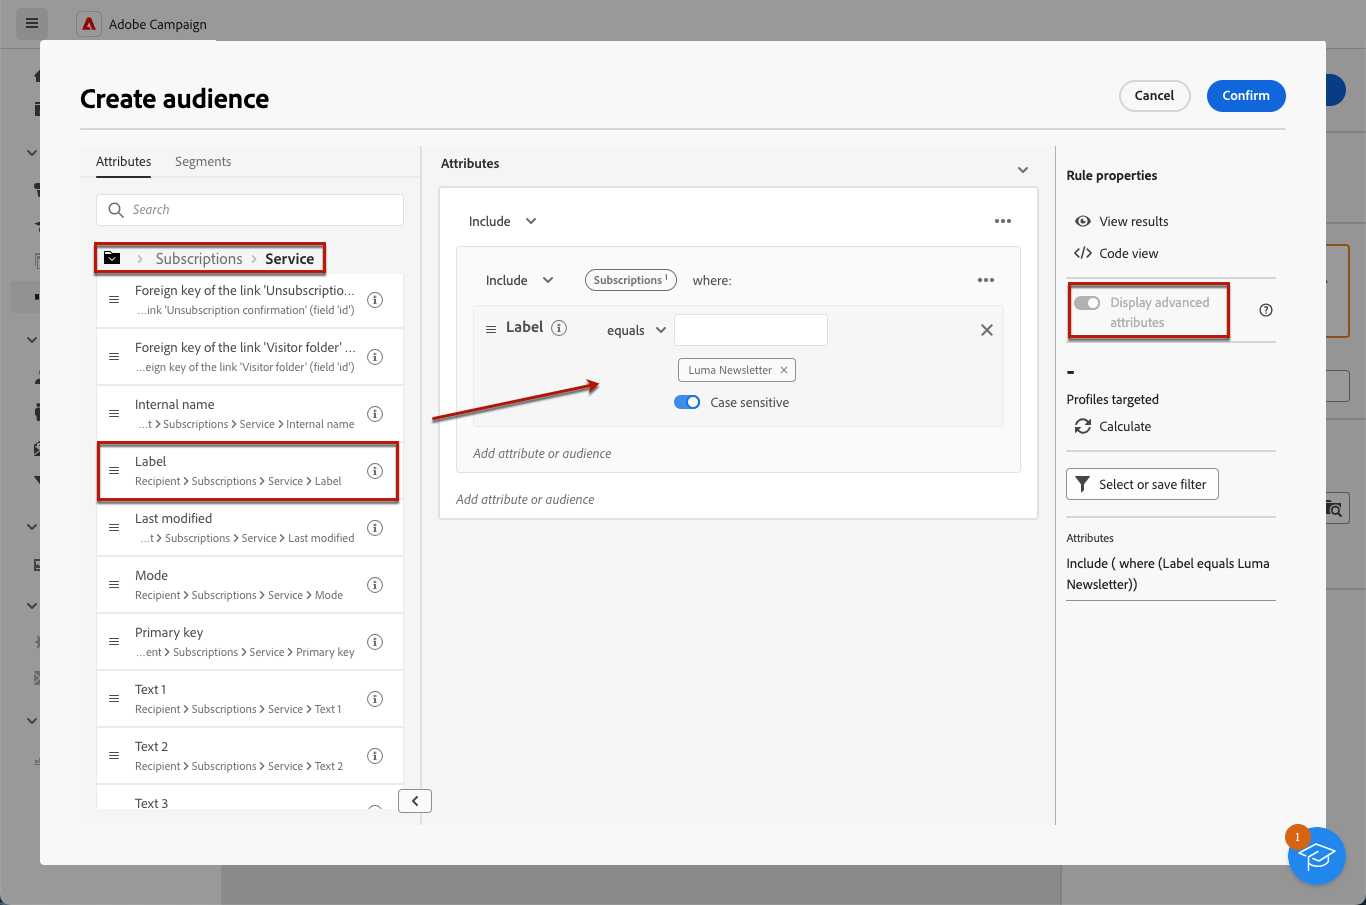
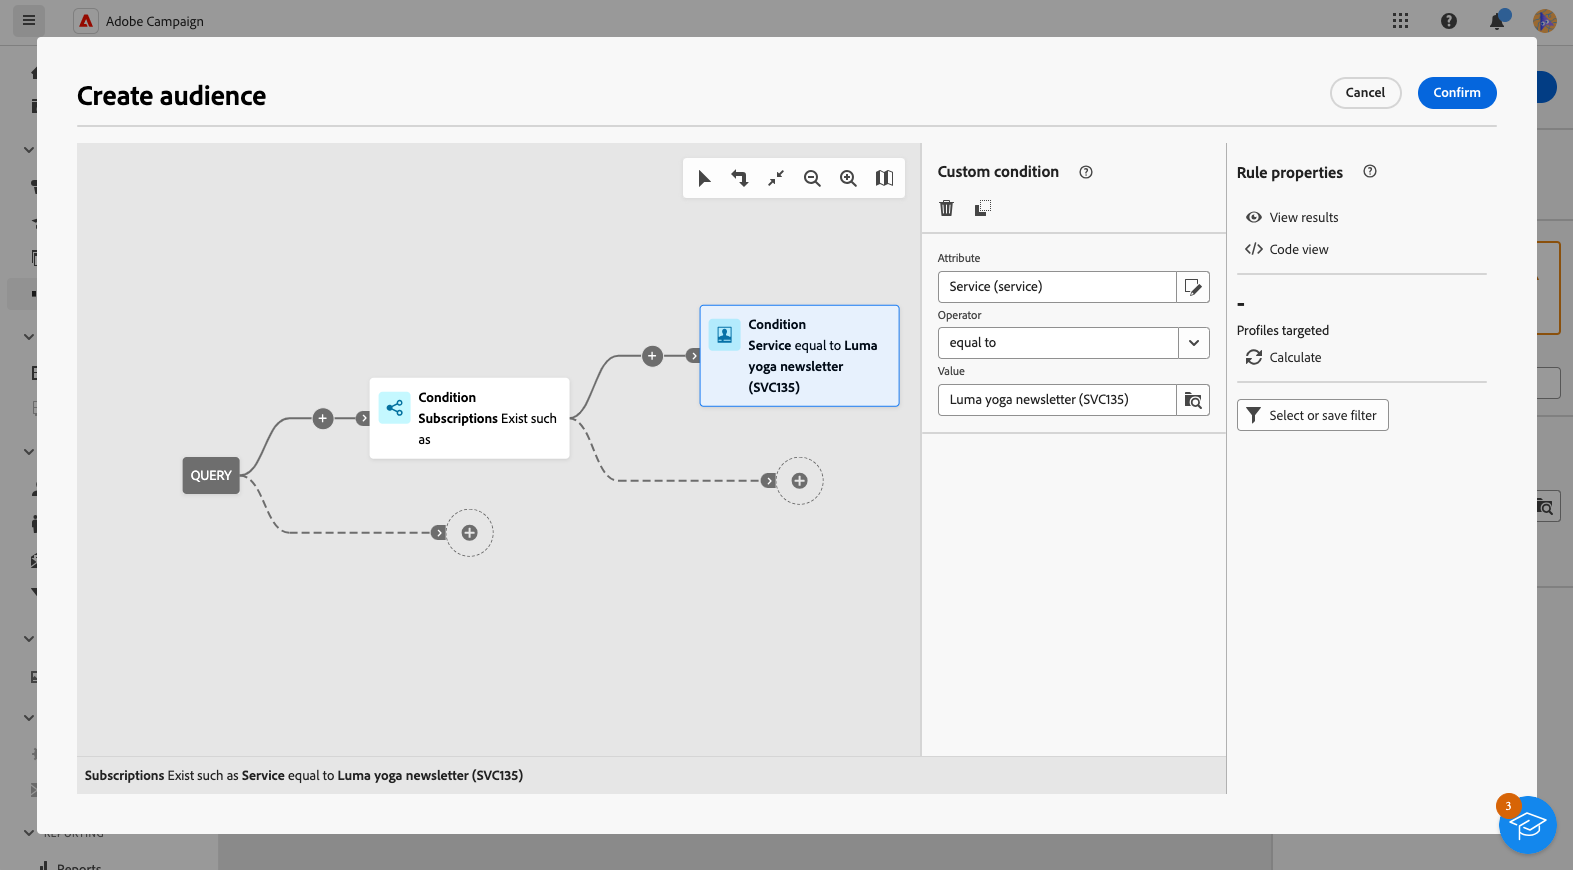
send to subscribers updates

diff --git a/help/v8/msg/send-to-subscribers.md b/help/v8/msg/send-to-subscribers.md
@@ -7,19 +7,24 @@ exl-id: f6e14db5-261c-4fa6-bd19-fd8bdc04aaf1
 ---
 # Send messages to the subscribers of a service {#send-to-subscribers}
 
-You can create subscription services in Adobe Campaign, and send messages to your subcribers. Learn how to create subscriptions services in [this page](../audience//manage-services.md#create-service). 
+You can create subscription services in Adobe Campaign, and send messages to your subcribers. Learn how to create subscriptions services on [this page](../audience//manage-services.md#create-service). 
 
-To send messages to your subscribers, create a specific audience to identify the subscribers, and then create the delivery as detailed below. 
+To send messages to your subscribers, create a specific audience to identify the subscribers, and then create the delivery as detailed below.
 
-1. Create an audience. Learn more about audiences in [this page](../audience/create-audience.md).
+1. Create an audience. A new workflow is automatically created. [Learn more about audiences](../audience/create-audience.md)
 
-1. In the **[!UICONTROL Build audience]** activity, display the advanced attributes and select **[!UICONTROL Recipient]** > **[!UICONTROL Subscriptions]** > **[!UICONTROL Service]**.
-    
-    In this example, select the users who are subscribed to the service that has the **Luma Newsletter** label.
+1. For better readability, change the name of the workflow in the workflow settings' **Label** field. [Learn how to configure workflow settings](../workflows/workflow-settings.md)
+
+1. Open the **[!UICONTROL Build audience]** activity, and select **[!UICONTROL Create audience]**. [Learn how to configure a Build audience activity](../workflows/activities/build-audience.md)
+
+    ![](assets/service-create-audience.png)
+
+1. In the audience creation flow, select the following custom conditions: **[!UICONTROL Susbscriptions]** exist such as **[!UICONTROL Service]** is equal to the service you defined. In this example, select your **Luma yoga newsletter**.
 
     ![](assets/service-audience-subscribers.png)
 
-1. Save the audience.
+1. Select **[!UICONTROL Confirm]** and click **[!UICONTROL Start]** to execute the workflow.
+
 1. Create a delivery. Steps to create a delivery are detailed in [this page](../msg/gs-messages.md#create-delivery).
 1. Browse to your delivery settings, change the default target mapping to **Subscriptions (nms:subscriptions)**.
 
